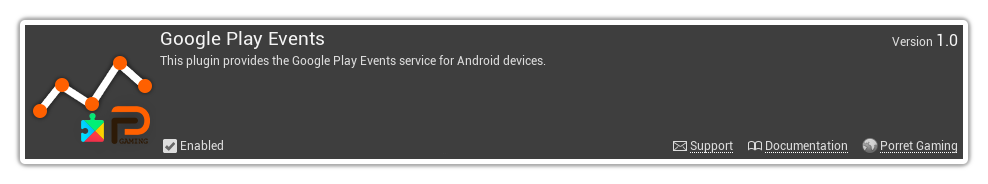
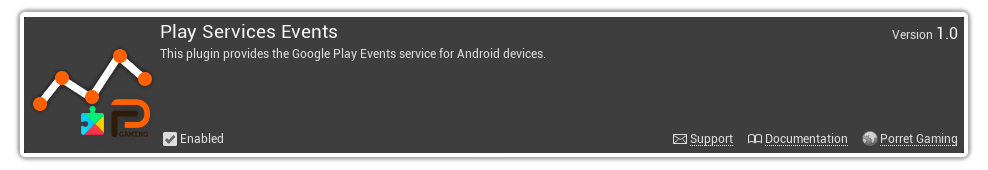
add updated name titles and add download on google play button to Squiggle homepage card

diff --git a/index.html b/index.html
@@ -119,9 +119,9 @@
           <a href="./plugins/google-play-services/saved-games/overview.html" class="text-decoration-none">
             <div class="card text-center card-custom">
               <div class="card-header card-header-custom">
-                <h5 style="margin-bottom: 0;">Google Play Saved Games</h5>
+                <h5 style="margin-bottom: 0;">Play Services: Saved Games</h5>
               </div>
-              <img src="images/SavedGames/SavedGames_Plugin_Showcase.png" class="card-img-top" alt="...">
+              <img src="images/SavedGames/SavedGames_Plugin_Showcase.png" alt="...">
               <div class="card-body card-body-custom">
                 <p class="card-text">
                   Pack of Unreal Engine blueprint nodes exposing Google Play's cloud-saving service to Android Game
@@ -135,9 +135,9 @@
           <a href="./plugins/google-play-services/saved-games/overview.html" class="text-decoration-none">
             <div class="card text-center card-custom">
               <div class="card-header card-header-custom">
-                <h5 style="margin-bottom: 0;">Google Play Events</h5>
+                <h5 style="margin-bottom: 0;">Play Services: Events</h5>
               </div>
-              <img src="images/SavedGames/SavedGames_Plugin_Showcase.png" class="card-img-top" alt="...">
+              <img src="images/Events/GooglePlay_Events_Feature.png" alt="...">
               <div class="card-body card-body-custom">
                 <p class="card-text">
                   Pack of Unreal Engine blueprint nodes exposing Google Play's event analytics service to Android Game
@@ -163,11 +163,14 @@
               <div class="card-header card-header-custom">
                 <h5 style="margin-bottom: 0;">Squiggle</h5>
               </div>
-              <img src="images/Squiggle/MainMenu.png" class="card-img-top" alt="...">
+              <img src="images/Squiggle/MainMenu.png" alt="...">
               <div class="card-body card-body-custom">
                 <p class="card-text">
                   A free procedurally generated endless runner with high scores, achievements and quests.
                 </p>
+                <a href='https://play.google.com/store/apps/details?id=com.JoshKarpul.Squiggle&pcampaignid=pcampaignidMKT-Other-global-all-co-prtnr-py-PartBadge-Mar2515-1' class="btn btn-custom">
+                  <img alt='Get it on Google Play' src='https://play.google.com/intl/en_us/badges/static/images/badges/en_badge_web_generic.png' />
+                </a>
               </div>
             </div>
           </a>

diff --git a/plugins/google-play-services/saved-games/getting_started.html b/plugins/google-play-services/saved-games/getting_started.html
@@ -191,13 +191,13 @@
                                 Go to the Library tab and find the plugin and add it to the engine.
                             </p>
                             <li class="list-group-item">
-                                Enable Google Play Saved Games Plugin
+                                Enable Play Services Saved Games Plugin
                             </li>
                             <p class="content" style="padding-top: 10px; padding-left: 10px">
                                 In Unreal Engine, the plugin will be available in the plugins section.</br>
                                 Go to <span style="font-weight: 500">Settings</span> -> <span
                                     style="font-weight: 500">Plugins</span> -> Search for "<span
-                                    style="font-weight: 500">Google Play: Saved Games</span>" and ensure it is enabled.
+                                    style="font-weight: 500">Play Services Saved Games</span>" and ensure it is enabled.
                             </p>
                             <div class="container" style="margin-left: 0px; padding-left: 0px;">
                                 <div style="display: flex; justify-content: center; align-items: center;">

diff --git a/plugins/google-play-services/events/getting_started.html b/plugins/google-play-services/events/getting_started.html
@@ -159,13 +159,13 @@
                                 Go to the Library tab and find the plugin and add it to the engine.
                             </p>
                             <li class="list-group-item">
-                                Enable Google Play Events Plugin
+                                Enable Play Services Events Plugin
                             </li>
                             <p class="content" style="padding-top: 10px; padding-left: 10px">
                                 In Unreal Engine, the plugin will be available in the plugins section.</br>
                                 Go to <span style="font-weight: 500">Settings</span> -> <span
                                     style="font-weight: 500">Plugins</span> -> Search for "<span
-                                    style="font-weight: 500">Google Play Events</span>" and ensure it is enabled.
+                                    style="font-weight: 500">Play Services Events</span>" and ensure it is enabled.
                             </p>
                             <div class="container" style="margin-left: 0px; padding-left: 0px;">
                                 <div style="display: flex; justify-content: center; align-items: center;">

diff --git a/style.css b/style.css
@@ -294,17 +294,39 @@ hr {
 }
 
 .card-header-custom {
-    background-color: #ffffff;
+    /* background-color: rgba(56, 63, 69, 1);
+    color: white; */
 }
 
 .card-body-custom {
     background-color: #ffffff;
+    padding: 0.5rem;
+    padding-bottom: 1.5rem;
+    position: relative;
 }
 
 .card-custom {
-    border: 1px solid #ccc;
+    border: 0px solid #ccc;
     border-radius: 3px;
     box-shadow: 0 0 10px #969696;
+    position: relative;
+}
+
+.card img {
+    max-width: 100%;
+    height: auto;
+}
+
+.btn-custom {
+    position: absolute;
+    bottom: -40px;
+    left: 50%;
+    transform: translateX(-50%);
+    display: flex;
+    align-items: center;
+    /* padding: 10px; */
+    background-color: transparent;
+    border: none;
 }
 
 .plugin-section {
@@ -315,7 +337,7 @@ hr {
     background-size: cover;
     background-attachment: fixed;
     box-shadow: 0px 0px 20px 0px #00000063;
-    
+
 }
 
 .game-section {
@@ -332,7 +354,7 @@ hr {
     font-size: 40px;
     font-weight: 700;
     /* color: rgb(255, 255, 255); */
-    text-shadow:rgb(0, 0, 0) 1px 0 3px;
+    text-shadow: rgb(0, 0, 0) 1px 0 3px;
     padding-bottom: 20px;
     padding-top: 20px;
 }
